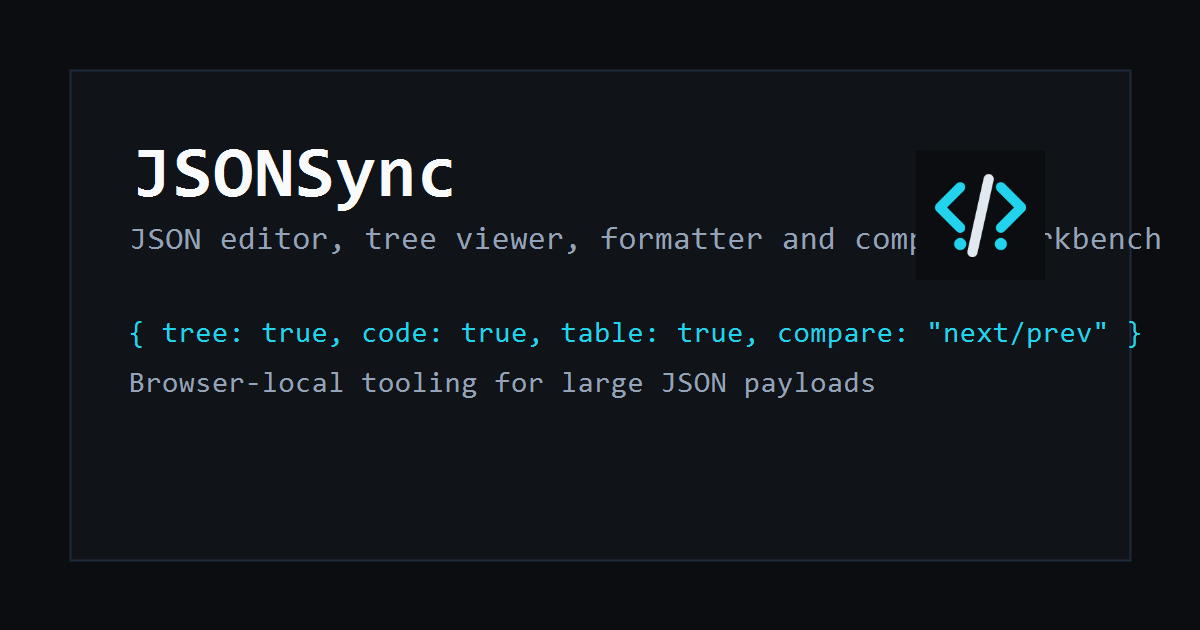
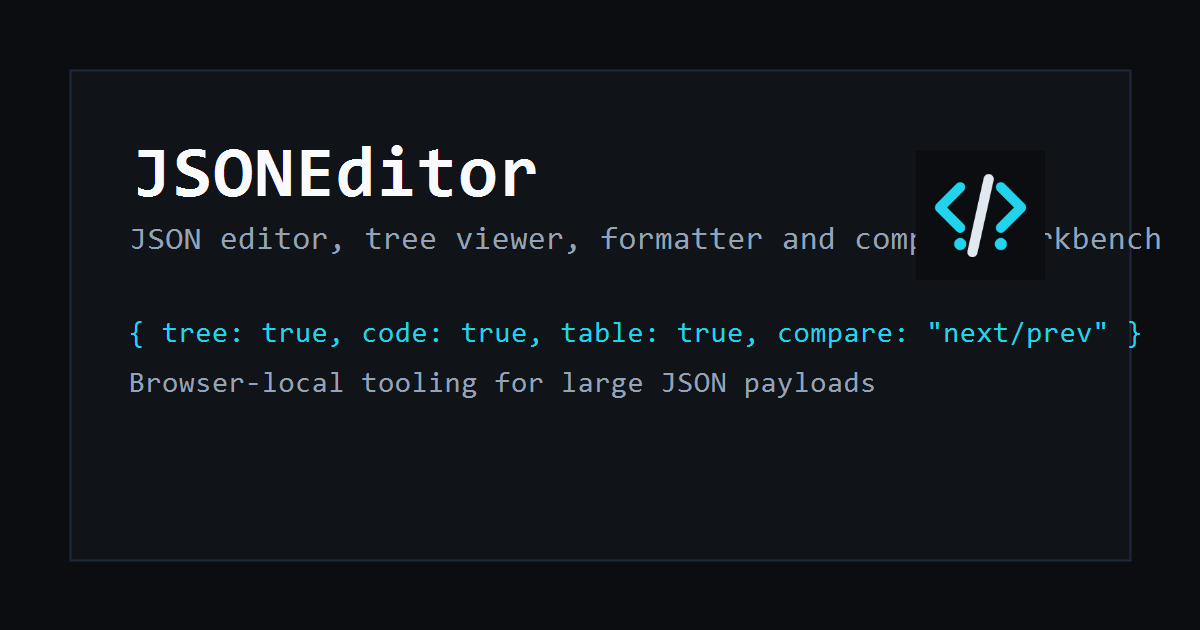
Rename launch brand to JSONEditor

Changed region(s): [[0.2467, 0.2111, 0.4625, 0.3317]]

diff --git a/public/index.html b/public/index.html
@@ -6,19 +6,19 @@
     <meta name="theme-color" content="#0b0d10" />
     <meta name="color-scheme" content="dark light" />
 
-    <title>JSONSync - JSON Editor, Formatter, Tree Viewer & Compare Tool</title>
+    <title>JSONEditor - JSON Editor, Formatter, Tree Viewer & Compare Tool</title>
     <meta
       name="description"
-      content="JSONSync is a browser-local JSON editor and compare workbench with tree, code, text, and table views, schema validation, query tools, and large JSON performance guardrails."
+      content="JSONEditor is a browser-local JSON editor and compare workbench with tree, code, text, and table views, schema validation, query tools, and large JSON performance guardrails."
     />
     <meta
       name="keywords"
       content="JSON editor, JSON formatter, JSON compare, JSON diff, JSON tree viewer, JSON table viewer, JSON schema validator, JSON repair, JSON query tool, online JSON editor"
     />
-    <meta name="author" content="JSONSync" />
-    <meta name="application-name" content="JSONSync" />
+    <meta name="author" content="JSONEditor" />
+    <meta name="application-name" content="JSONEditor" />
     <meta name="robots" content="index,follow,max-image-preview:large" />
-    <link rel="canonical" href="https://json-comparator-one.vercel.app/" />
+    <link rel="canonical" href="https://jsoneditor.shubhamashish.xyz/" />
 
     <link rel="icon" href="%PUBLIC_URL%/favicon.ico?v=3" sizes="any" />
     <link rel="icon" href="%PUBLIC_URL%/favicon.svg?v=3" type="image/svg+xml" />
@@ -27,33 +27,33 @@
     <link rel="manifest" href="%PUBLIC_URL%/manifest.json" />
 
     <meta property="og:type" content="website" />
-    <meta property="og:site_name" content="JSONSync" />
-    <meta property="og:url" content="https://json-comparator-one.vercel.app/" />
-    <meta property="og:title" content="JSONSync - JSON Editor, Formatter, Tree Viewer & Compare Tool" />
+    <meta property="og:site_name" content="JSONEditor" />
+    <meta property="og:url" content="https://jsoneditor.shubhamashish.xyz/" />
+    <meta property="og:title" content="JSONEditor - JSON Editor, Formatter, Tree Viewer & Compare Tool" />
     <meta
       property="og:description"
       content="Edit, inspect, validate, query, and compare JSON locally in your browser with tree navigation and large-file friendly views."
     />
-    <meta property="og:image" content="https://json-comparator-one.vercel.app/og-image.png?v=3" />
+    <meta property="og:image" content="https://jsoneditor.shubhamashish.xyz/og-image.png?v=3" />
     <meta property="og:image:width" content="1200" />
     <meta property="og:image:height" content="630" />
-    <meta property="og:image:alt" content="JSONSync JSON workbench interface" />
+    <meta property="og:image:alt" content="JSONEditor JSON workbench interface" />
 
     <meta name="twitter:card" content="summary_large_image" />
-    <meta name="twitter:url" content="https://json-comparator-one.vercel.app/" />
-    <meta name="twitter:title" content="JSONSync - JSON Editor, Formatter, Tree Viewer & Compare Tool" />
+    <meta name="twitter:url" content="https://jsoneditor.shubhamashish.xyz/" />
+    <meta name="twitter:title" content="JSONEditor - JSON Editor, Formatter, Tree Viewer & Compare Tool" />
     <meta
       name="twitter:description"
       content="A browser-local JSON workbench for editing, formatting, tree viewing, schema validation, query, and tree-based comparison."
     />
-    <meta name="twitter:image" content="https://json-comparator-one.vercel.app/og-image.png?v=3" />
+    <meta name="twitter:image" content="https://jsoneditor.shubhamashish.xyz/og-image.png?v=3" />
 
     <script type="application/ld+json">
       {
         "@context": "https://schema.org",
         "@type": "WebApplication",
-        "name": "JSONSync",
-        "url": "https://json-comparator-one.vercel.app/",
+        "name": "JSONEditor",
+        "url": "https://jsoneditor.shubhamashish.xyz/",
         "applicationCategory": "DeveloperApplication",
         "operatingSystem": "Any",
         "description": "A browser-local JSON editor and compare workbench with tree, code, text, and table views, schema validation, query tools, and large JSON performance guardrails.",
@@ -78,7 +78,7 @@
     <script src="https://cdn.tailwindcss.com"></script>
   </head>
   <body>
-    <noscript>You need to enable JavaScript to run JSONSync.</noscript>
+    <noscript>You need to enable JavaScript to run JSONEditor.</noscript>
     <div id="root"></div>
   </body>
 </html>

diff --git a/src/jsonUtils.test.js b/src/jsonUtils.test.js
@@ -7,14 +7,14 @@ import {
 } from "./jsonUtils";
 
 test("reports JSON parse line and column", () => {
-  const result = parseJSONDetailed('{\n  "name": "JSONSync",\n}');
+  const result = parseJSONDetailed('{\n  "name": "JSONEditor",\n}');
   expect(result.error.line).toBe(3);
   expect(result.error.column).toBeGreaterThan(0);
 });
 
 test("repairs common JSON-ish input", () => {
-  const repaired = repairJSONish("{name: 'JSONSync', trailing: true,}");
-  expect(JSON.parse(repaired)).toEqual({ name: "JSONSync", trailing: true });
+  const repaired = repairJSONish("{name: 'JSONEditor', trailing: true,}");
+  expect(JSON.parse(repaired)).toEqual({ name: "JSONEditor", trailing: true });
 });
 
 test("supports ignored paths and numeric tolerance", () => {

diff --git a/src/JSONCompare.js b/src/JSONCompare.js
@@ -774,7 +774,7 @@ const JSONCompare = () => {
         <div className="mx-auto flex h-14 max-w-[120rem] items-center justify-between px-4">
           <button onClick={() => navigate("/")} className="inline-flex items-center gap-2 text-sm font-semibold uppercase text-white">
             <GitCompare className="h-5 w-5 text-cyan-400" />
-            JSONSync
+            JSONEditor
           </button>
           <button onClick={() => navigate("/")} className="inline-flex items-center gap-2 border border-slate-700 px-3 py-1.5 text-xs text-slate-300 hover:bg-slate-900">
             <Home className="h-4 w-4" /> Home

diff --git a/src/HomePage.js b/src/HomePage.js
@@ -11,7 +11,7 @@ const HomePage = () => {
         <div className="mx-auto flex h-14 max-w-6xl items-center justify-between px-4 sm:px-6">
           <button onClick={() => navigate("/compare")} className="flex items-center gap-2 text-left">
             <TerminalSquare className="h-5 w-5 text-cyan-400" />
-            <span className="text-sm font-semibold uppercase text-slate-100">JSONSync</span>
+            <span className="text-sm font-semibold uppercase text-slate-100">JSONEditor</span>
           </button>
           <button
             onClick={() => navigate("/compare")}

diff --git a/README.md b/README.md
@@ -1,8 +1,8 @@
-# JSONSync
+# JSONEditor
 
-JSONSync is a browser-local JSON workbench for editing, inspecting, transforming, validating, and comparing JSON documents. The current design is developer-focused: monospace UI, tree-first navigation, separate workspaces for editor/compare/query/schema, and guardrails for larger JSON payloads.
+JSONEditor is a browser-local JSON workbench for editing, inspecting, transforming, validating, and comparing JSON documents. The current design is developer-focused: monospace UI, tree-first navigation, separate workspaces for editor/compare/query/schema, and guardrails for larger JSON payloads.
 
-Live app: https://json-comparator-one.vercel.app/
+Live app: https://jsoneditor.shubhamashish.xyz/
 
 ## What It Does
 
@@ -182,14 +182,14 @@ Important notes:
 
 ## Persistence And Privacy
 
-JSONSync runs in the browser. The app does not send pasted JSON to a backend service.
+JSONEditor runs in the browser. The app does not send pasted JSON to a backend service.
 
 Persistence behavior:
 
 - Small JSON documents may be restored from `localStorage`.
 - Large JSON documents are kept in memory only.
 - Large documents show a warning that they will not be restored after refresh.
-- Reset clears app workspace state and JSONSync localStorage keys.
+- Reset clears app workspace state and JSONEditor localStorage keys.
 
 If old localStorage data causes a stale state, run this in DevTools:
 
@@ -215,7 +215,7 @@ The `Reset` toolbar action clears:
 - Query / transform state
 - Fetch URL
 - Storage notices
-- JSONSync localStorage entries
+- JSONEditor localStorage entries
 
 ## Local Development
 
